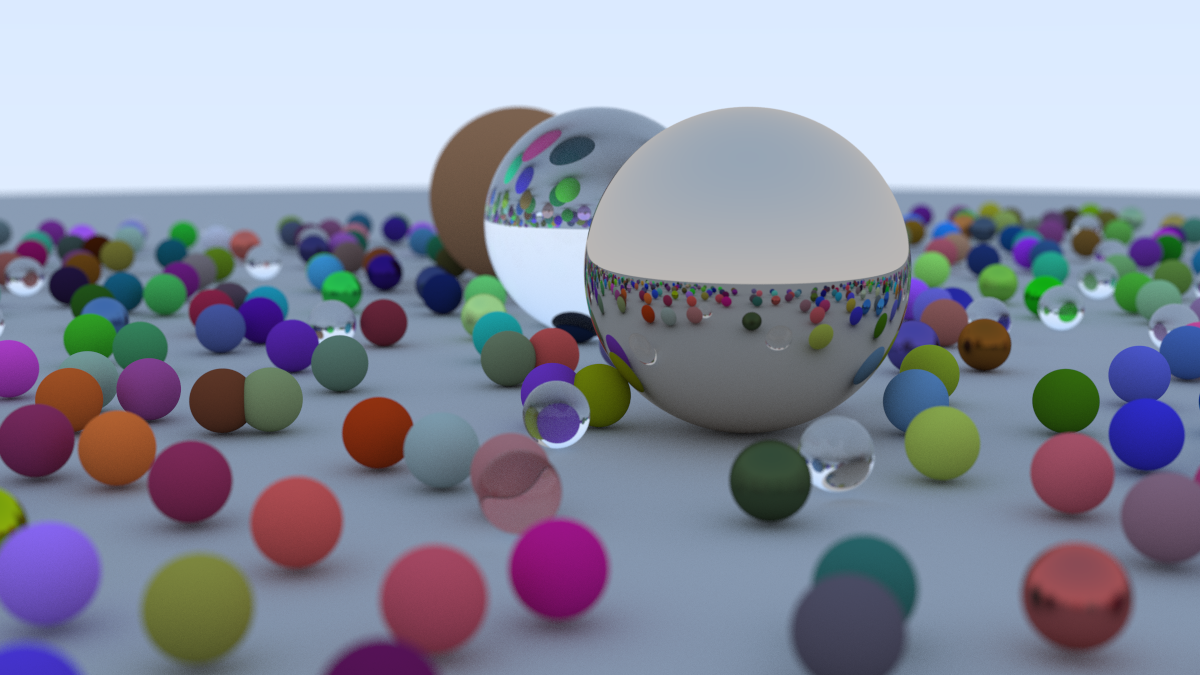
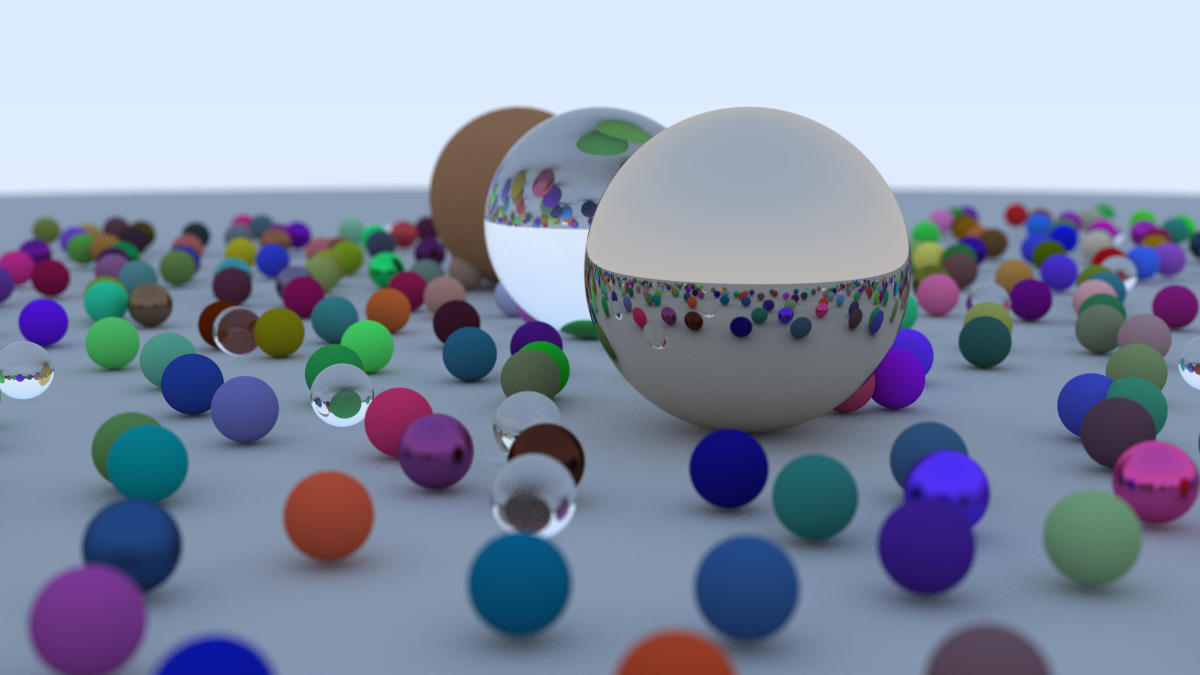
Changed render image to one with seed(1), added image embed to README

diff --git a/README.md b/README.md
@@ -1,1 +1,3 @@
 [_Ray Tracing in One Weekend_](https://raytracing.github.io/books/RayTracingInOneWeekend.html), done in Rust
+
+![A raytraced image of a bunch of spheres](render.png?raw=true)
